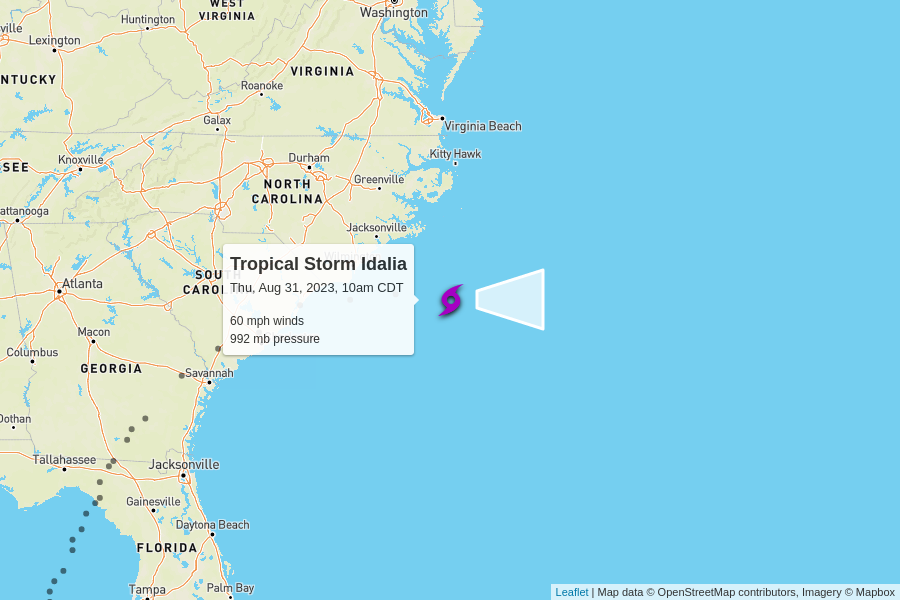
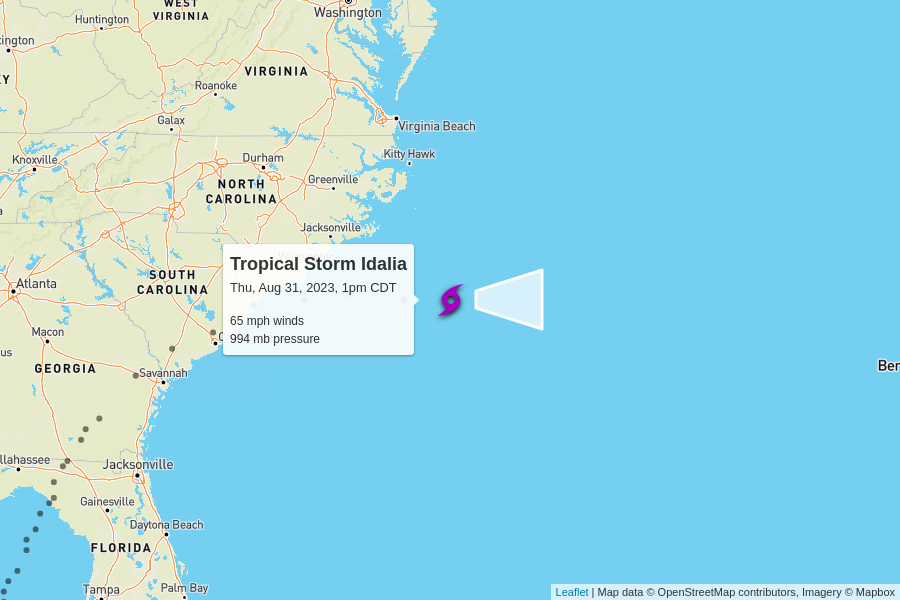
automatic update

diff --git a/docs/index.html b/docs/index.html
@@ -97,6 +97,50 @@
 
     <table>
       <tr>
+        <td colspan="6" class="storm category-0" >
+          <h2>
+            Tropical Storm Idalia
+            <p class="updated">last updated <span data-time>2023-08-31T18:00:00.000Z</span></p>
+          </h2>
+        </td>
+      </tr>
+      
+      <tr>
+        <th class="spacer"></th>
+        <th>wind speed</th>
+        <th>central pressure</th>
+        <th>movement</th>
+        <th>data (CSV)</th>
+        <th>National Hurricane Center</th>
+      </tr>
+      <tr>
+        <td class="spacer"></td>
+        <td>65 mph</td>
+        <td>994 mb</td>
+        <td>
+          20 mph to the east
+          <br/>
+          <span style="display: inline-block; font-size: 1.5em; transform: rotate(90deg);">↑</span>
+        </td>
+        <td><a href="https://raw.githubusercontent.com/mgwalker/atlantic-hurricanes/main/data/csv/AL102023.csv">AL102023.csv</a></td>
+        <td><a href="https://www.nhc.noaa.gov/archive/2023/IDALIA.shtml?">NHC advisories</a></td>
+      </tr>
+      <tr id="storm_AL102023" >
+        <td class="spacer">
+        <td colspan="5">
+          <figure>
+            <img src="AL102023.png">
+            <figcaption>
+              Map data &copy; <a href="https://www.openstreetmap.org/copyright">OpenStreetMap</a> contributors,
+              Imagery &copy; <a href="https://www.mapbox.com/">Mapbox</a> |
+              <a href="https://www.mapbox.com/map-feedback/" target="_blank">Improve this map</a>
+            </figcaption>
+          </figure>
+        </td>
+      </tr>
+      
+
+      <tr>
         <td colspan="6" class="storm category-2" >
           <h2>
             Hurricane Franklin - Category 2
@@ -130,50 +174,6 @@
         <td colspan="5">
           <figure>
             <img src="AL082023.png">
-            <figcaption>
-              Map data &copy; <a href="https://www.openstreetmap.org/copyright">OpenStreetMap</a> contributors,
-              Imagery &copy; <a href="https://www.mapbox.com/">Mapbox</a> |
-              <a href="https://www.mapbox.com/map-feedback/" target="_blank">Improve this map</a>
-            </figcaption>
-          </figure>
-        </td>
-      </tr>
-      
-
-      <tr>
-        <td colspan="6" class="storm category-0" >
-          <h2>
-            Tropical Storm Idalia
-            <p class="updated">last updated <span data-time>2023-08-31T15:00:00.000Z</span></p>
-          </h2>
-        </td>
-      </tr>
-      
-      <tr>
-        <th class="spacer"></th>
-        <th>wind speed</th>
-        <th>central pressure</th>
-        <th>movement</th>
-        <th>data (CSV)</th>
-        <th>National Hurricane Center</th>
-      </tr>
-      <tr>
-        <td class="spacer"></td>
-        <td>60 mph</td>
-        <td>992 mb</td>
-        <td>
-          20 mph to the east
-          <br/>
-          <span style="display: inline-block; font-size: 1.5em; transform: rotate(90deg);">↑</span>
-        </td>
-        <td><a href="https://raw.githubusercontent.com/mgwalker/atlantic-hurricanes/main/data/csv/AL102023.csv">AL102023.csv</a></td>
-        <td><a href="https://www.nhc.noaa.gov/archive/2023/IDALIA.shtml?">NHC advisories</a></td>
-      </tr>
-      <tr id="storm_AL102023" >
-        <td class="spacer">
-        <td colspan="5">
-          <figure>
-            <img src="AL102023.png">
             <figcaption>
               Map data &copy; <a href="https://www.openstreetmap.org/copyright">OpenStreetMap</a> contributors,
               Imagery &copy; <a href="https://www.mapbox.com/">Mapbox</a> |
